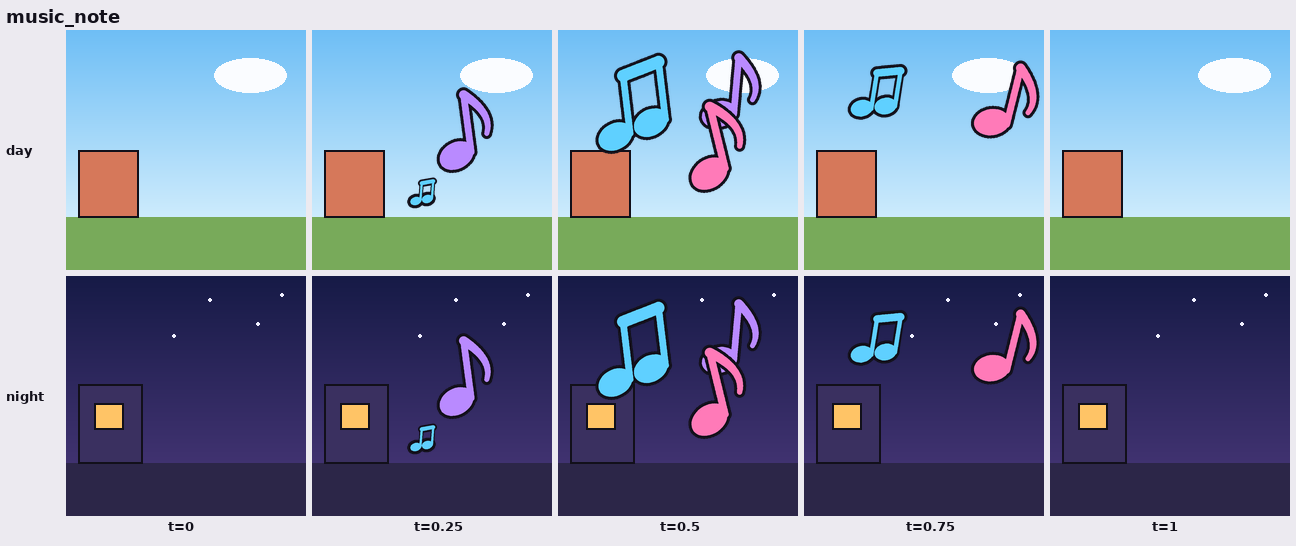
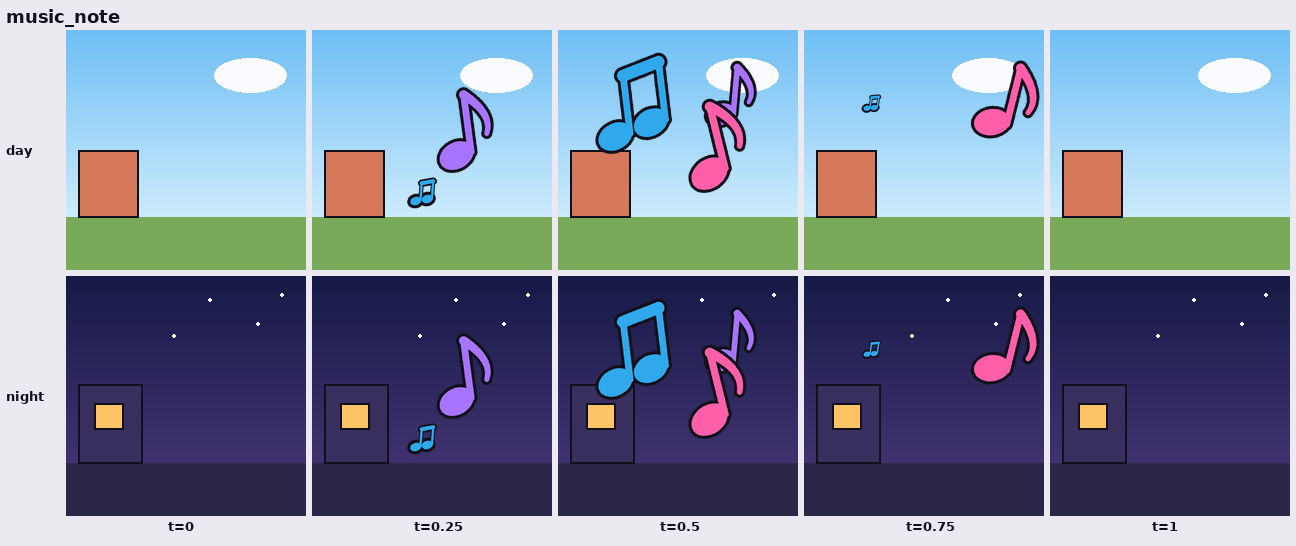
fx: review round 2 fixes (ease-in-out shrink exits, flat cel halo, stroke widths scale, day contrast), CATALOG and RULES
Claude-Session: https://claude.ai/code/session_01CUE843qry1EHijK4cNMuJ6

diff --git a/fx/fx.py b/fx/fx.py
@@ -39,7 +39,7 @@ def pop(t, a, b, pre=0.35, dip=0.22, s=1.9):
 
 
 def fade(t, a, b=1.0): return 1 - smooth(seg(t, a, b))
-def shrink(t, a, b=1.0): return 1 - in_cubic(seg(t, a, b))
+def shrink(t, a, b=1.0): return 1 - smooth(seg(t, a, b))   # ease in-out: gone well before b, no exit pop
 
 
 # ---------------------------------------------------------------- colour helpers
@@ -170,7 +170,7 @@ def fx_explosion(t, n, u, e, kw):
     k = pop(t, 0.13, 0.34, pre=0.22, dip=0.12, s=1.4)
     cool = smooth(seg(t, 0.36, 0.78))                       # fire -> smoke
     rise = u * 0.32 * smooth(seg(t, 0.3, 1.0))
-    out = fade(t, 0.84, 1.0)
+    out = fade(t, 0.9, 1.0)
     body = mixc(col, smoke, cool)
     puffs = []
     m = 9
@@ -212,7 +212,7 @@ def fx_impact_star(t, n, u, e, kw):
     k = pop(t, 0.1, 0.28, pre=0.3, dip=0.16, s=2.4)
     k *= 1 + 0.05 * math.sin(2 * math.pi * seg(t, 0.28, 0.6) * 2) * fade(t, 0.4, 0.6)   # settling throb
     k *= 1 - 0.12 * smooth(seg(t, 0.35, 0.7))              # slow settle during the hold: never a frozen sprite
-    k *= shrink(t, 0.68, 0.98)
+    k *= shrink(t, 0.64, 0.95)
     ang = kw.get('angle', 0) + 14 * (1 - out_cubic(seg(t, 0.1, 0.5))) - 12 * smooth(seg(t, 0.3, 1))
     jit = [rng.uniform(0.78, 1.0) for _ in range(pts_n)]
     outer = ('p', star_pts(cx, cy, pts_n, u * 0.78 * k, u * 0.36 * k, ang, jit), col)
@@ -247,7 +247,7 @@ def fx_dust_puff(t, n, u, e, kw):
             f = (i + 0.5) / m
             go = out_cubic(seg(t, 0.08 + 0.03 * i, 0.75))
             grow = pop(t, 0.06 + 0.02 * i, 0.32 + 0.03 * i, pre=0.35, dip=0.28, s=1.5)
-            r = u * (0.26 - 0.1 * f) * grow * shrink(t, 0.42 + 0.08 * i, 0.9 + 0.025 * i) * rng.uniform(0.9, 1.1)
+            r = u * (0.26 - 0.1 * f) * grow * shrink(t, 0.42 + 0.08 * i, 0.86 + 0.03 * i) * rng.uniform(0.9, 1.1)
             x = cx + s * u * (0.08 + 0.95 * f * go)
             y = gy - r * (1 - 0.35 * squash) - u * 0.22 * out_quad(seg(t, 0.15, 1)) * (1 - f * 0.5)
             shapes.append(('e', x, y, r * (1 + 0.45 * squash), r * (1 - 0.35 * squash), col))
@@ -255,7 +255,7 @@ def fx_dust_puff(t, n, u, e, kw):
     rc = u * 0.24 * pop(t, 0.04, 0.28, pre=0.4, dip=0.3, s=1.3) * shrink(t, 0.3, 0.7)
     shapes.append(('e', cx, gy - rc * (1 - 0.35 * squash), rc * (1 + 0.5 * squash), rc * (1 - 0.35 * squash), col))
     k = max(p[3] for p in shapes) / (u * 0.26)
-    return group(n, shapes, ink_w(e, k), details=caps, alpha=fade(t, 0.7, 1.0) * clamp(t / 0.03))
+    return group(n, shapes, ink_w(e, k), details=caps, alpha=fade(t, 0.9, 1.0) * clamp(t / 0.03))
 
 
 def fx_speed_lines(t, n, u, e, kw):
@@ -301,10 +301,10 @@ def fx_sweat_drop(t, n, u, e, kw):
     wob = 0.06 * math.sin(2 * math.pi * 2.5 * seg(t, 0.3, 0.55)) * fade(t, 0.35, 0.55)
     creep = 0.12 * smooth(seg(t, 0.28, 0.45))               # slow creep while it gathers weight
     slide = creep + 0.88 * in_quad(seg(t, 0.45, 0.9))
-    hold = 0.12 * bump(seg(t, 0.36, 0.48))                  # squash wide just before it lets go (anticipation)
+    hold = 0.12 * bump(seg(t, 0.36, 0.48)) - 0.05 * bump(seg(t, 0.48, 0.58))                # squash wide just before it lets go (anticipation)
     stretch = 0.32 * bump(seg(t, 0.46, 1.0))
-    sx = (1 + wob + hold - 0.15 * stretch) * k * shrink(t, 0.8, 0.98)
-    sy = (1 - wob - hold + stretch) * k * shrink(t, 0.8, 0.98)
+    sx = (1 + wob + hold - 0.15 * stretch) * k * shrink(t, 0.7, 0.96)
+    sy = (1 - wob - hold + stretch) * k * shrink(t, 0.7, 0.96)
     cx = n / 2 + flip * u * 0.12 * slide
     cy = n / 2 - u * 0.3 + u * 0.75 * slide
     r = u * 0.3
@@ -319,7 +319,7 @@ def fx_anger_vein(t, n, u, e, kw):
     k = pop(t, 0.1, 0.27, pre=0.35, dip=0.2, s=2.2)
     for pk in (0.4, 0.55, 0.7):                             # three throbs through the hold
         k *= 1 + 0.15 * bump(seg(t, pk - 0.05, pk + 0.07)) ** 2
-    k *= shrink(t, 0.78, 0.98)
+    k *= shrink(t, 0.7, 0.96)
     jit = 4 * math.sin(t * 60) * bump(seg(t, 0.3, 0.75))
     strokes = []
     R = u * 0.7 * k
@@ -360,17 +360,11 @@ def fx_glow_eyes(t, n, u, e, kw):
     flick = 1 + 0.05 * pulse
     glow = clamp(t / 0.12) * (0.7 + 0.3 * pulse + 0.3 * bump(seg(t, 0.16, 0.32))) * fade(t, 0.72, 0.98)
     im = new(n)
-    halo = new(n); hd = ImageDraw.Draw(halo)
-    for s_ in (-1, 1):
-        x = cx + s_ * gap
-        for f, a in ((2.0, 110), (1.35, 190)):
-            hr = r * f * flick
-            hd.ellipse(((x - hr) * S, (cy - hr * (0.4 + 0.5 * o)) * S, (x + hr) * S, (cy + hr * (0.4 + 0.5 * o)) * S),
-                       fill=col + (a,))
-    # blur only the alpha and keep the colour solid: blurring straight RGBA drags in black from empty pixels (grey smudge)
-    mask = halo.getchannel('A').filter(ImageFilter.GaussianBlur(r * 0.45 * S))
-    halo = Image.new('RGBA', halo.size, col + (0,)); halo.putalpha(mask)
-    comp(im, opacity(halo, glow))
+    # halo: flat cel-style rings (no blur; DRAWING_RULES 1), two steps of the eye colour at low alpha
+    for f, a in ((1.75, 0.28), (1.35, 0.45)):
+        rings = [('p', almond(cx + s_ * gap, cy, r * f * flick, r * 0.62 * f * max(o, 0.3) * flick, -s_ * slant), col)
+                 for s_ in (-1, 1)]
+        comp(im, group(n, rings, 0, alpha=a * glow))
     eyes, cores = [], []
     for s_ in (-1, 1):
         x = cx + s_ * gap
@@ -383,7 +377,7 @@ def fx_glow_eyes(t, n, u, e, kw):
 
 def fx_sparkle(t, n, u, e, kw):
     rng = random.Random(kw.get('seed', 13))
-    col = rgb(kw.get('color', '#fff1a0'))
+    col = rgb(kw.get('color', '#ffe45c'))
     cnt = kw.get('count', 5)
     cx, cy = n / 2, n / 2
     shapes, cores, ks = [], [], []
@@ -476,14 +470,14 @@ def xform(pts, px, py, sx, sy, ang, k, dx=0, dy=0):
     for p in pts:
         x = px + (p[0] - px) * sx * k; y = py + (p[1] - py) * sy * k
         x, y = rot(x, y, px, py, ang)
-        out.append((x + dx, y + dy) + tuple(p[2:]))
+        out.append((x + dx, y + dy) + tuple(w * k for w in p[2:]))   # stroke widths shrink with the glyph
     return out
 
 
 def fx_question_mark(t, n, u, e, kw):
     col = rgb(kw.get('color', '#ffd84a'))
     cx, cy = n / 2, n / 2
-    k = pop(t, 0.12, 0.32, pre=0.35, dip=0.25, s=2.0) * shrink(t, 0.8, 1.0)
+    k = pop(t, 0.12, 0.32, pre=0.35, dip=0.25, s=2.0) * shrink(t, 0.7, 0.96)
     sx, sy = squash_stretch(t, 0.12, 0.45)
     ang = kw.get('tilt', 8) + 14 * math.sin(2 * math.pi * 1.5 * seg(t, 0.2, 0.75)) * (1 - seg(t, 0.2, 0.75))
     lift = -u * 0.15 * smooth(seg(t, 0.72, 1.0))
@@ -498,7 +492,7 @@ def fx_question_mark(t, n, u, e, kw):
     lift += u * 0.04 * math.sin(2 * math.pi * 1.5 * seg(t, 0.35, 0.85)) * bump(seg(t, 0.35, 0.85))
     grow = smooth(seg(t, 0.08, 0.16))                       # glyph grows out of a round blob
     stroke = ('s', xform(pts, *piv, sx, sy, ang, k, 0, lift), col)
-    kd = pop(t, 0.18, 0.38, pre=0.3, dip=0.2, s=2.4) * shrink(t, 0.8, 1.0)  # the dot lands a beat later (overlap)
+    kd = pop(t, 0.18, 0.38, pre=0.3, dip=0.2, s=2.4) * shrink(t, 0.7, 0.96)  # the dot lands a beat later (overlap)
     dx, dy = xform([(cx, cy + u * 0.52)], *piv, sx, sy, ang, 1, 0, lift)[0]
     dot = ('c', dx, dy, u * 0.12 * kd, col)
     hl = [('c', *xform([(hook_c[0] - R * 0.7, hook_c[1] - R * 0.55)], *piv, sx, sy, ang, k, 0, lift)[0], w * 0.18 * k,
@@ -515,7 +509,7 @@ def fx_question_mark(t, n, u, e, kw):
 def fx_exclaim(t, n, u, e, kw):
     col = rgb(kw.get('color', '#ff4a3a'))
     cx, cy = n / 2, n / 2
-    k = pop(t, 0.1, 0.28, pre=0.3, dip=0.2, s=3.0) * shrink(t, 0.8, 1.0)
+    k = pop(t, 0.1, 0.28, pre=0.3, dip=0.2, s=3.0) * shrink(t, 0.7, 0.96)
     sx, sy = squash_stretch(t, 0.1, 0.4)
     shake = u * 0.04 * math.sin(t * 90) * bump(seg(t, 0.28, 0.55))
     ang = kw.get('tilt', -6) + 5 * math.sin(t * 70) * bump(seg(t, 0.28, 0.55))
@@ -523,7 +517,7 @@ def fx_exclaim(t, n, u, e, kw):
     piv = (cx, cy + u * 0.75)
     bar = [(cx, cy - u * 0.5, u * 0.28), (cx, cy - u * 0.15, u * 0.22), (cx, cy + u * 0.22, u * 0.11)]
     bar = ('s', xform(bar, *piv, sx, sy, ang, k, shake, lift), col)
-    kd = pop(t, 0.16, 0.34, pre=0.3, dip=0.2, s=2.6) * shrink(t, 0.8, 1.0)
+    kd = pop(t, 0.16, 0.34, pre=0.3, dip=0.2, s=2.6) * shrink(t, 0.7, 0.96)
     dx, dy = xform([(cx, cy + u * 0.5)], *piv, sx, sy, ang, 1, shake, lift)[0]
     dot = ('c', dx, dy, u * 0.13 * kd, col)
     hl = [('c', *xform([(cx - u * 0.06, cy - u * 0.5)], *piv, sx, sy, ang, k, shake, lift)[0], u * 0.045 * k, light(col, 0.6))]
@@ -564,7 +558,7 @@ def note_shapes(x, y, h, ang, col, double=False):
 
 def fx_music_note(t, n, u, e, kw):
     rng = random.Random(kw.get('seed', 19))
-    cols = kw.get('colors') or [kw.get('color', '#b98aff'), '#5fd0ff', '#ff7ab8']
+    cols = kw.get('colors') or [kw.get('color', '#a774ff'), '#2fa8ec', '#ff5fa8']
     cnt = kw.get('count', 3)
     cx, by = n / 2, n / 2 + u * 0.7                        # notes rise from bottom centre (a mouth / speaker)
     im = new(n)

diff --git a/fx/CATALOG.md b/fx/CATALOG.md
@@ -1,0 +1,84 @@
+# FX catalog
+
+`fx/fx.py` draws every effect procedurally (4x supersampled, flat colour, `#12101a` outline), in the same style as `stickman/scripts/stickman.py`.
+
+```python
+import sys; sys.path.insert(0, 'fx'); import fx
+img = fx.render('explosion', t=0.3, size=400, color='#ff8a1f')   # RGBA 400x400, t = 0..1 over the effect's life
+```
+
+- **The canvas is square.** The effect is centred and fills about 90% of it. Use `scale=` to shrink the content inside the canvas.
+- **Every effect is empty at t=0 and at t=1.** Each one has anticipation, then a peak with overshoot, then a shrink-out. Map any duration onto t, for example 0.5-1.2 s (15-36 frames) at 30 fps.
+- **Common kwargs:**
+  - `color`: hex or RGB.
+  - `scale`: default 1.
+  - `line`: the outline width in output px. The default is 3, the same as the stickman's line when both are composited at the same scale. If the engine scales the character by `k`, pass `line=3.2*k`.
+  - `seed`: varies the layout.
+- **Anchors:**
+  - `dust_puff` and `splash` sit their base on a ground line at about 0.72 of the canvas height.
+  - `music_note` rises from the bottom centre.
+  - Every other effect is centred.
+- **Previews:** run `.venv/bin/python fx/scripts/catalog.py` to rebuild the strips and the GIF. It also runs the automatic checks (empty at both ends, no coverage jump > 35% of peak between 1/60 steps) and exits non-zero on failure.
+- **Strips:** each one shows t = 0, .25, .5, .75, 1, over a day tile (top) and a night tile (bottom).
+
+![demo](previews/fx_demo.gif)
+
+### `explosion`
+puffy fire cloud + white flash core + sparks, cools to smoke and rises. Kwargs: color, core, smoke.
+
+![explosion](previews/explosion.png)
+
+### `impact_star`
+spiky hit star + impact ticks. Kwargs: color, inner, points, angle.
+
+![impact_star](previews/impact_star.png)
+
+### `dust_puff`
+ground puffs rolling out sideways. Kwargs: color, direction=both|left|right.
+
+![dust_puff](previews/dust_puff.png)
+
+### `speed_lines`
+streaks behind a moving thing. Kwargs: color, count, angle (travel direction, deg).
+
+![speed_lines](previews/speed_lines.png)
+
+### `sweat_drop`
+drop forms, wobbles, slides down. Kwargs: color, flip.
+
+![sweat_drop](previews/sweat_drop.png)
+
+### `anger_vein`
+four-arc anger mark that throbs twice. Kwargs: color.
+
+![anger_vein](previews/anger_vein.png)
+
+### `glow_eyes`
+two glowing eye discs with a halo. Kwargs: color, gap, radius.
+
+![glow_eyes](previews/glow_eyes.png)
+
+### `sparkle`
+staggered twinkling 4-point stars. Kwargs: color, count.
+
+![sparkle](previews/sparkle.png)
+
+### `splash`
+water crown + ballistic drops + ring. Kwargs: color.
+
+![splash](previews/splash.png)
+
+### `question_mark`
+popping, wobbling ?. Kwargs: color, tilt.
+
+![question_mark](previews/question_mark.png)
+
+### `exclaim`
+popping, shaking ! with surprise ticks. Kwargs: color, tilt.
+
+![exclaim](previews/exclaim.png)
+
+### `music_note`
+notes rising and swaying. Kwargs: colors, count.
+
+![music_note](previews/music_note.png)

diff --git a/fx/RULES.md b/fx/RULES.md
@@ -1,0 +1,16 @@
+# FX rules
+
+These are fx-specific lessons from review. Follow them for every new effect, and check each strip and dense timing sheet against them.
+
+1. **Empty at both ends.** At t=0 and t=1 the sprite has no visible pixels. `catalog.py` checks this automatically.
+2. **Exit by shrinking, not by alpha.** Shrink with an ease-in-out (`shrink()` = 1 - smoothstep) so the sprite is small by about t=0.92. Alpha may fade only in the last ~8%. A long alpha fade looks murky on night plates, and outlined puffs turn into hollow "soap bubble" rings. A plain cubic shrink still leaves a big sprite at 11/12 that pops off.
+3. **Entry by `pop()`.** Grow a little, pull back (the wind-up), then overshoot with `out_back` (DRAWING_RULES 25). The anticipation shape must read as a ball or squash, never as a comma or another glyph.
+4. **Never freeze in the hold.** Add a slow settle, drift, throb, bob or pulse between the pop and the exit.
+5. **Scale stroke widths with the sprite.** When a glyph is transformed, scale `w` with `k` as well as the positions. Otherwise a shrinking "?" becomes a fat blob.
+6. **Tiny shapes get a thinner outline** (`min(e, r*0.6)`). A full 3 px line on a 1 px dot reads as a black speck that pops.
+7. **No blurred glows.** Gaussian halos break the flat style and smear on day plates. Use flat cel rings at low alpha. If you ever must blur, blur only the alpha and keep the RGB solid, because blurring straight RGBA drags in black.
+8. **Outline weight:** use `line` = 3 px in output pixels at the character's scale, not a size-relative width. That way the effect and the stickman share one line weight.
+9. **Draw outlines first, then all fills** (one merged silhouette, DRAWING_RULES 8). Details such as highlights and cores go on top with no outline.
+10. **Day contrast:** pale fills (pale yellow, cyan) vanish on a light sky. Pick saturated mid-tones (`#ffe45c`, `#2fa8ec`) and let the ink outline carry the edge at night.
+11. **Stagger groups in an order** (middle first, or left to right). Random delays look like pops.
+12. **Look at a dense sheet** (t = 1/12 .. 11/12) on day and night, not just the 5-frame strip. Exit pops and frozen holds only show there.
